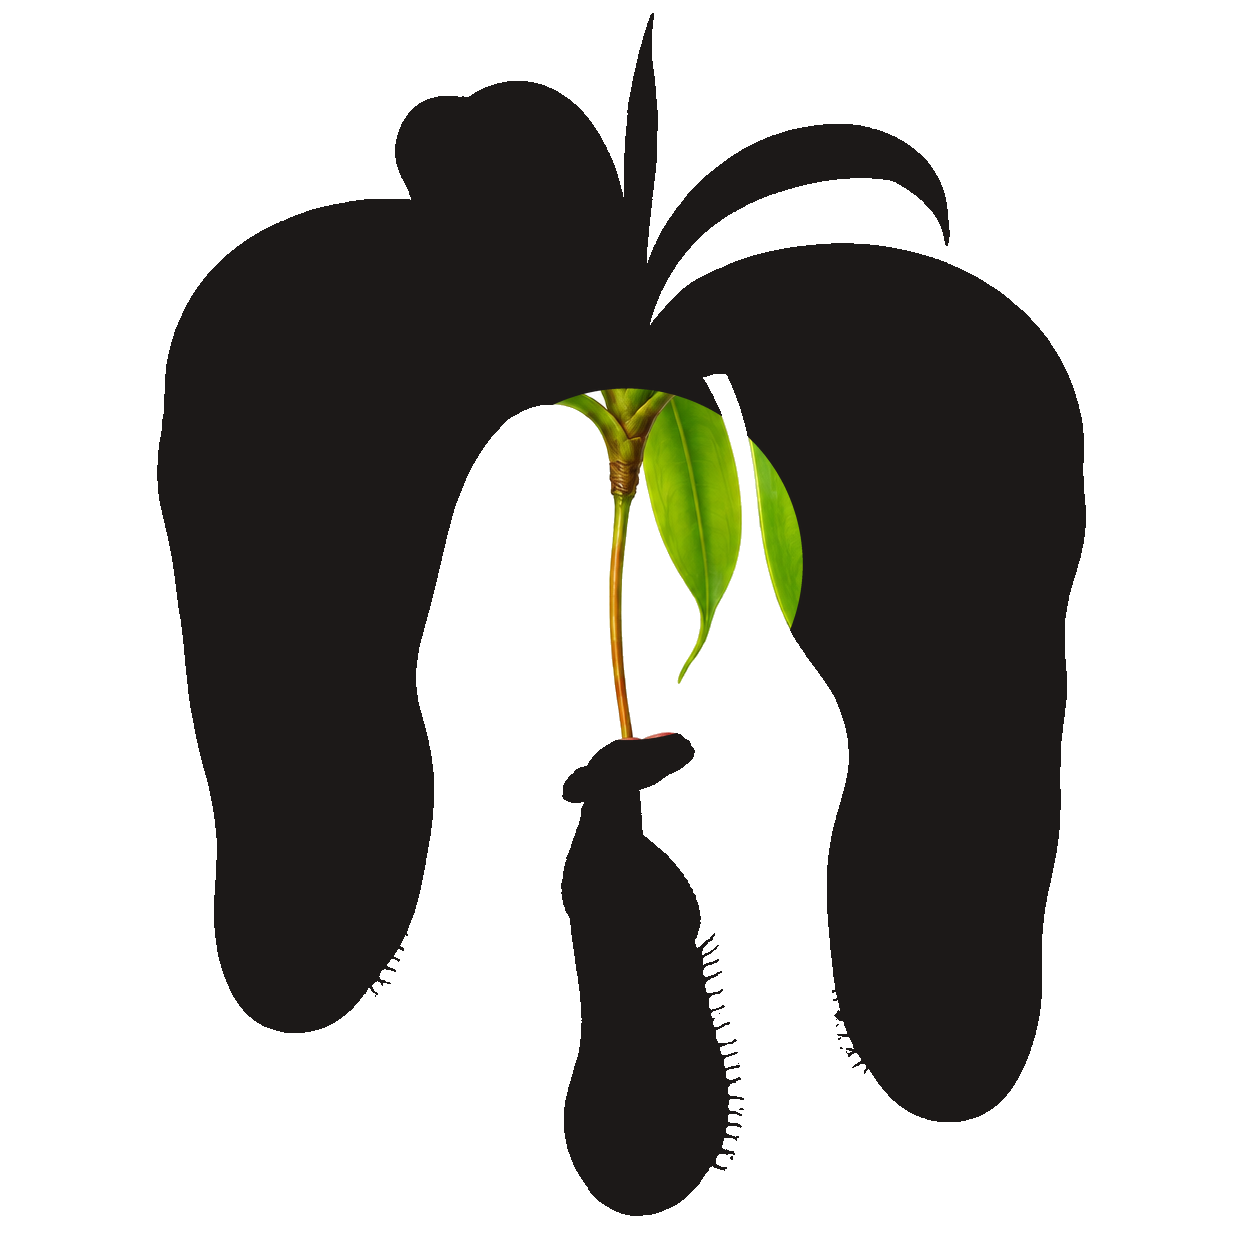
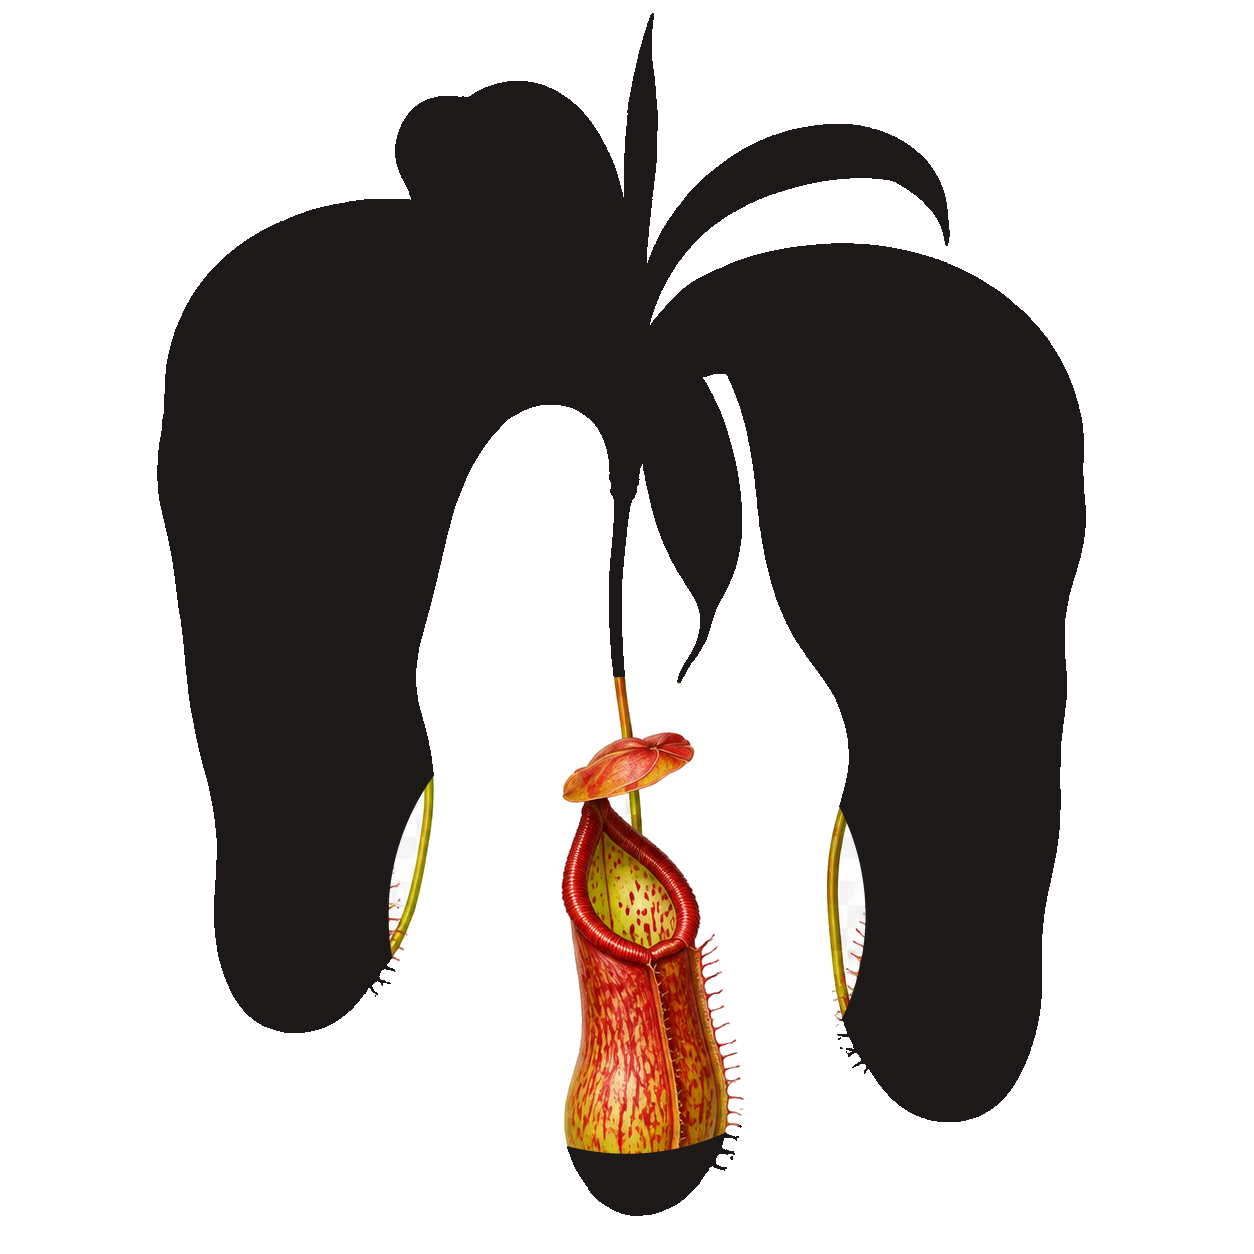
fix: show pitcher in utsubokazura quiz hint

diff --git a/scripts/remove_white_background.py b/scripts/remove_white_background.py
@@ -23,6 +23,12 @@ from src.paths import (
     SHOKUBUTSU_ZUKAN_IMAGE_DIR,
 )
 
+DEFAULT_HIGHLIGHT = Highlight("いろの ぶぶん", 0.5, 0.45, 0.14)
+SHOKUBUTSU_HIGHLIGHTS = {
+    # うつぼかずららしさが分かる、中央につり下がったつぼを見せる。
+    "utsubokazura": Highlight("つぼの ぶぶん", 0.5, 0.73, 0.19),
+}
+
 
 def is_background(pixel: tuple[int, int, int, int]) -> bool:
     red, green, blue, alpha = pixel
@@ -50,13 +56,24 @@ def make_background_transparent(path: Path) -> None:
     image.save(path, format="PNG", optimize=True)
 
 
-def rebuild_subject_assets(data_path: Path, zukan_dir: Path, quiz_dir: Path) -> None:
+def rebuild_subject_assets(
+    data_path: Path,
+    zukan_dir: Path,
+    quiz_dir: Path,
+    highlights: dict[str, Highlight] | None = None,
+) -> None:
     for item in load_ready_subject_items(data_path):
         source = zukan_dir / item.image_filename
         make_background_transparent(source)
-        save_quiz_image(source, Highlight("いろの ぶぶん", 0.5, 0.45, 0.14), quiz_dir / item.image_filename)
+        highlight = (highlights or {}).get(item.key, DEFAULT_HIGHLIGHT)
+        save_quiz_image(source, highlight, quiz_dir / item.image_filename)
 
 
 if __name__ == "__main__":
-    rebuild_subject_assets(SHOKUBUTSU_DATA_PATH, SHOKUBUTSU_ZUKAN_IMAGE_DIR, SHOKUBUTSU_QUIZ_IMAGE_DIR)
+    rebuild_subject_assets(
+        SHOKUBUTSU_DATA_PATH,
+        SHOKUBUTSU_ZUKAN_IMAGE_DIR,
+        SHOKUBUTSU_QUIZ_IMAGE_DIR,
+        SHOKUBUTSU_HIGHLIGHTS,
+    )
     rebuild_subject_assets(KONCHUU_DATA_PATH, KONCHUU_ZUKAN_IMAGE_DIR, KONCHUU_QUIZ_IMAGE_DIR)
